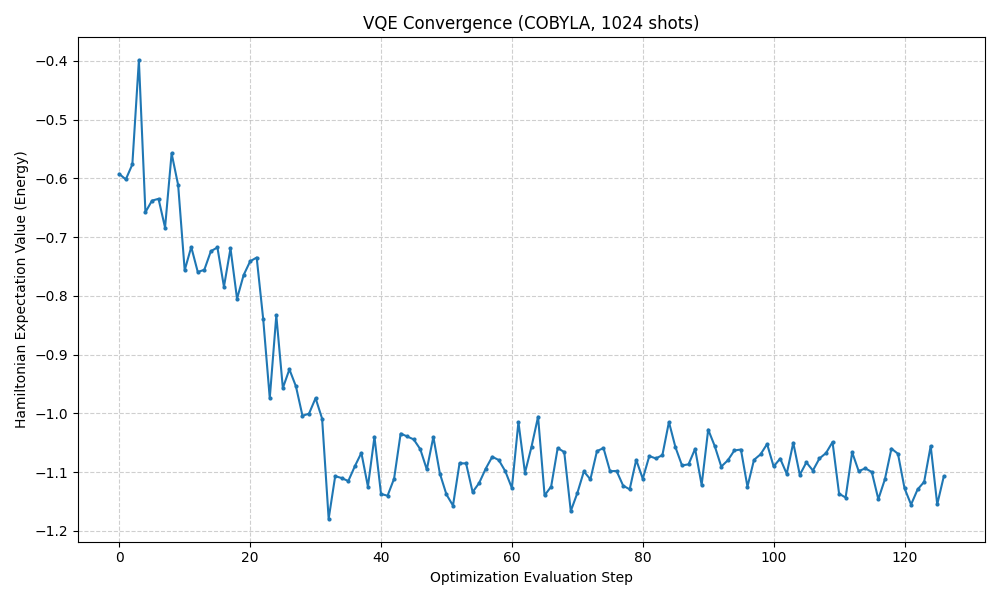
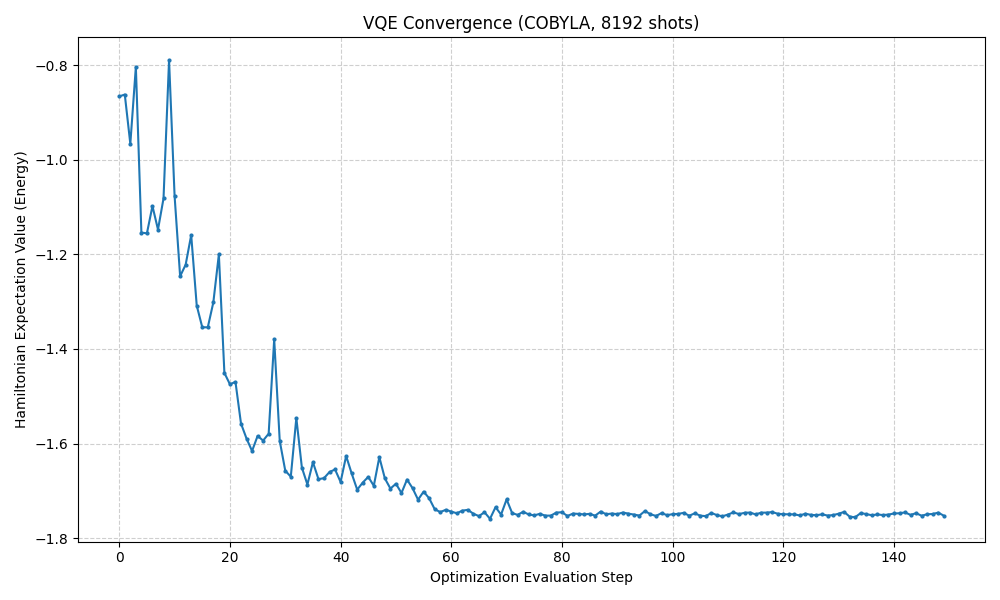
added examples added get theorytical min

diff --git a/examples/run_h3_example.py b/examples/run_h3_example.py
@@ -1,24 +1,25 @@
 import numpy as np
 from easy_vqe import find_ground_state
-from easy_vqe.vqe_core import draw_final_bound_circuit, print_results_summary
+from easy_vqe.vqe_core import draw_final_bound_circuit, print_results_summary, get_theoretical_ground_state_energy
 
 # --- Define Hamiltonian ---
 # Example: Simpler 3-Qubit Hamiltonian (adjust as needed)
 hamiltonian_3q = "-1.0 * ZZI + 0.9 * ZIZ - 0.5 * IZZ + 0.2 * XXX - 0.3 * YYY"
 
 # --- Define Ansatz Structure ---
-ansatz_block = [
+ansatz_block_linear_ent = [
     ('ry', [0, 1, 2]),
     ('cx', [0, 1]),
-    ('cx', [1, 2]),
+    ('cx', [1, 2]), 
     ('rz', [0, 1, 2]),
 ]
 
 ansatz_structure = [
-    ansatz_block,
-    ('cx', [0, 2]),
-    ansatz_block,
+    ansatz_block_linear_ent,
+    ("barrier", []),  
+    ansatz_block_linear_ent, 
 ]
+
 
 # --- Run VQE ---
 print("Starting VQE calculation...")
@@ -26,10 +27,10 @@ print("Starting VQE calculation...")
 results = find_ground_state(
     ansatz_structure=ansatz_structure,
     hamiltonian_expression=hamiltonian_3q,
-    n_shots=1024,
+    n_shots=8192,
     optimizer_method='COBYLA',
-    optimizer_options={'maxiter': 200, 'rhobeg': 0.5, 'tol': 1e-5}, 
-    initial_params_strategy='zeros',
+    optimizer_options={'maxiter': 500, 'rhobeg': 0.5, 'tol': 1e-5}, 
+    initial_params_strategy='random',
     display_progress=True,
     plot_filename="h3_convergence.png" 
 )
@@ -39,3 +40,16 @@ print_results_summary(results)
 
 # --- Draw Final Bound Circuit ---
 draw_final_bound_circuit(results)
+
+# --- Theoretical Ground State Energy ---
+theoretical_energy = get_theoretical_ground_state_energy(hamiltonian_3q)
+print(f"Theoretical Ground State Energy: {theoretical_energy}")
+
+# --- Compare with VQE Result ---
+vqe_energy = results['optimal_value']
+print(f"VQE Ground State Energy: {vqe_energy}")
+
+if np.isclose(vqe_energy, theoretical_energy, atol=1e-2):
+    print("VQE result is close to the theoretical ground state energy.")
+else:
+    print("VQE result is NOT close to the theoretical ground state energy.")

diff --git a/examples/run_h4_example.py b/examples/run_h4_example.py
@@ -1,6 +1,6 @@
 import numpy as np
 from easy_vqe import find_ground_state 
-from easy_vqe.vqe_core import draw_final_bound_circuit, print_results_summary
+from easy_vqe.vqe_core import draw_final_bound_circuit, print_results_summary, get_theoretical_ground_state_energy
 
 # --- Define Hamiltonian ---
 # Example: Simpler 4-Qubit Hamiltonian (adjust as needed)
@@ -48,10 +48,10 @@ print("Starting VQE calculation...")
 results = find_ground_state(
     ansatz_structure=ansatz_structure,
     hamiltonian_expression=hamiltonian_4q,
-    n_shots=2048,
+    n_shots=8192,
     optimizer_method='COBYLA',
-    optimizer_options={'maxiter': 300, 'rhobeg': 0.5, 'tol': 1e-5},
-    initial_params_strategy='zeros',
+    optimizer_options={'maxiter': 500, 'rhobeg': 0.5, 'tol': 1e-5},
+    initial_params_strategy='random',
     display_progress=True,
     plot_filename="h4_convergence.png",
 )
@@ -62,3 +62,15 @@ print_results_summary(results)
 # --- Draw Final Bound Circuit ---
 draw_final_bound_circuit(results)
 
+# --- Theoretical Ground State Energy ---
+theoretical_energy = get_theoretical_ground_state_energy(hamiltonian_4q)
+print(f"Theoretical Ground State Energy: {theoretical_energy}")
+
+# --- Compare with VQE Result ---
+vqe_energy = results['final_energy']
+print(f"VQE Ground State Energy: {vqe_energy}")
+
+if np.isclose(vqe_energy, theoretical_energy, atol=1e-2):
+    print("VQE result is close to the theoretical ground state energy.")
+else:
+    print("VQE result is NOT close to the theoretical ground state energy.")

diff --git a/easy_vqe/vqe_core.py b/easy_vqe/vqe_core.py
@@ -877,6 +877,42 @@ def find_ground_state(
 
     return result_dict
 
+def get_theoretical_ground_state_energy(hamiltonian_expression: str) -> float:
+    """
+    Calculates the theoretical ground state energy of a Hamiltonian.
+
+    Args:
+        hamiltonian_expression: Hamiltonian string (e.g., "-1.0*ZZ + 0.5*X").
+
+    Returns:
+        float: The theoretical ground state energy.
+
+    Raises:
+        ValueError: If the Hamiltonian expression is invalid
+    """
+    pauli_i = np.array([[1, 0], [0, 1]], dtype=complex)
+    pauli_x = np.array([[0, 1], [1, 0]], dtype=complex)
+    pauli_y = np.array([[0, -1j], [1j, 0]], dtype=complex)
+    pauli_z = np.array([[1, 0], [0, -1]], dtype=complex)
+    pauli_map = {'I': pauli_i, 'X': pauli_x, 'Y': pauli_y, 'Z': pauli_z}
+
+    parsed_ham = parse_hamiltonian_expression(hamiltonian_expression) 
+
+    num_qubits = len(parsed_ham[0][1])
+    dim = 2**num_qubits
+    ham_matrix = np.zeros((dim, dim), dtype=complex)
+
+    for coeff, pauli_str in parsed_ham:
+        term_matrix = np.array([1], dtype=complex) 
+        for pauli_char in pauli_str:
+            term_matrix = np.kron(term_matrix, pauli_map[pauli_char])
+        ham_matrix += coeff * term_matrix
+
+    eigenvalues = np.linalg.eigvalsh(ham_matrix)
+    ground_state_energy_exact = np.min(eigenvalues)
+
+    return ground_state_energy_exact.real
+
 
 def print_results_summary(results: Dict[str, Any]) -> None:
     """

diff --git a/READ.md b/READ.md
@@ -26,7 +26,7 @@ Or, for development, clone this repository and install in editable mode:
 
 ```bash
 git clone https://github.com/7Abdoman7/easy_vqe.git 
-cd easy_vqe_project
+cd easy_vqe
 pip install -e .[dev] 
 ```
 
